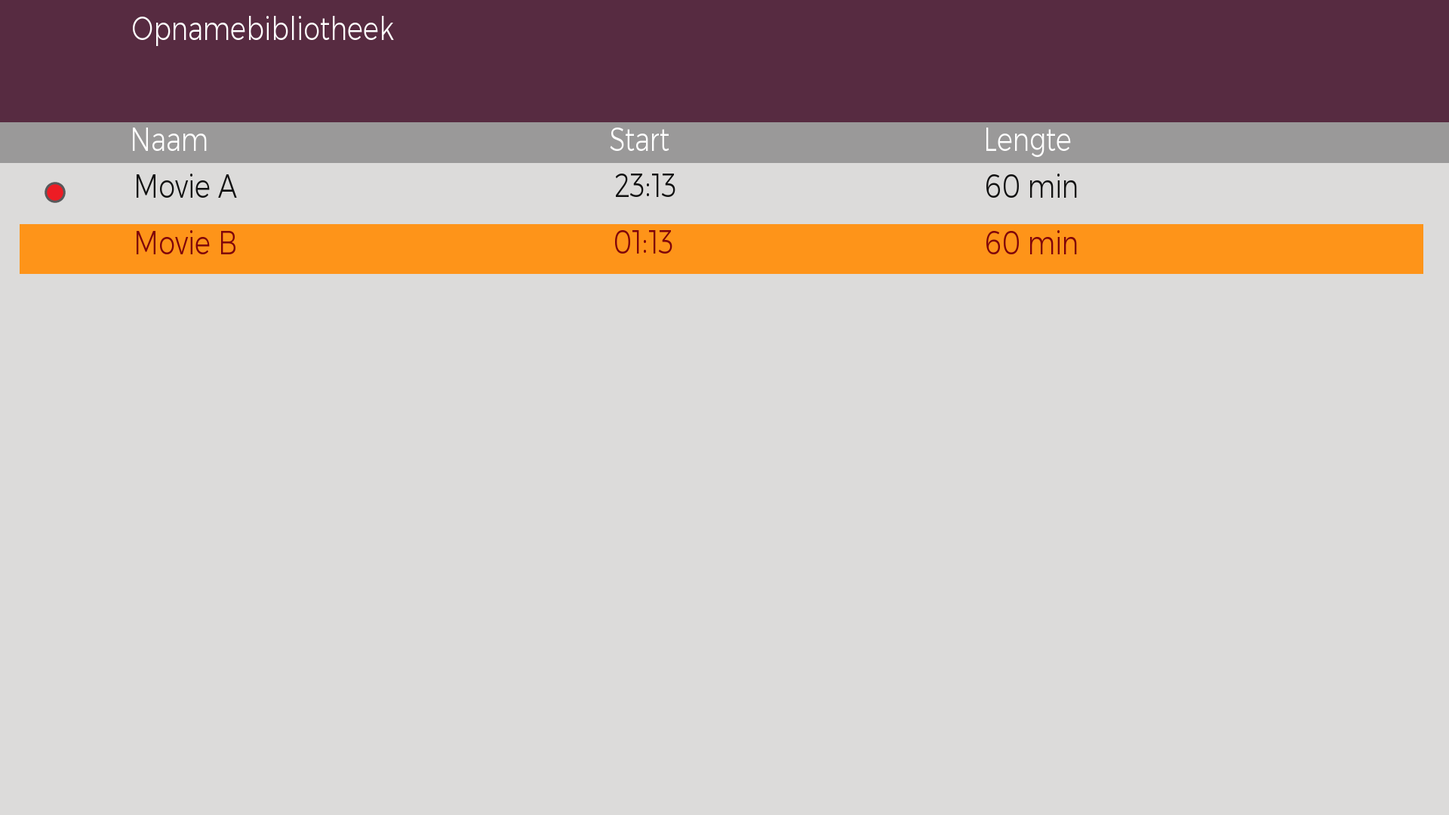
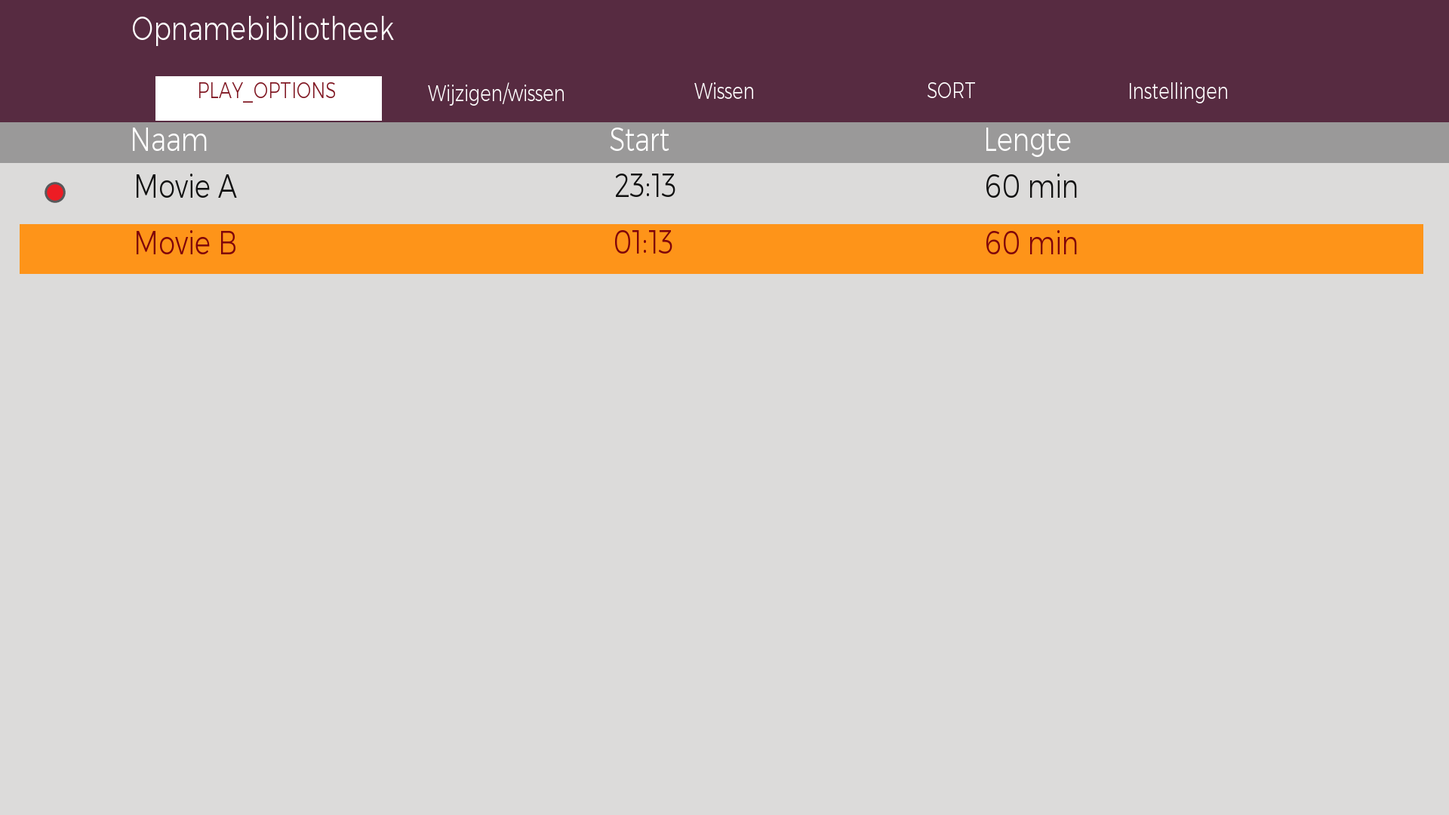
Correct the EPG/PVR tabs to text buttons and paint them
SVGButton::create 0x010aea28 looks its third argument up through\nUIResourceManager::lookupString, so the EPG/PVR tab names are localized text\nlabels, not glyph art. The real button states are TabButtonFA/UFA/FI/UFI\n(BinSVG 522..525): selected = solid white pill with #811924 text, unselected\n= transparent with white text. Correct the EPG and PVR reports, FINDINGS,\nMEMORY/TODO, subsystems and the layout header, which all said glyph/action\ntabs.\n\nAdd a shared paint_tab helper and render the five labels in the EPG timeline,\nEPG synopsis and PVR list (vendor Dutch values as fallbacks when i18n is not\npublished: Nu/Volgende schema, Filter, Vorige dag, Volgende dag, Extra's;\nPLAY_OPTIONS, Wijzigen/wissen, Wissen, SORT, Instellingen). Labels use a lazy\nsmaller font (ui.tab_font_id, default 4) because font7 renders\n"Nu/Volgende schema" 366 px wide in a 300 px tab; the exact vendor button font\nrecord remains unpinned. The tests assert the selected white pill.\n\nRecaptured candidates now show the tab row: epg-stock.png, epg-stock-synopsis.png\nand pvr-stock.png. Full host suite passes (rc=0); docs checks pass (345); ARM\nmod_ui_vendor.so c58d0f44... builds. No TV run; recorder evidence only.

diff --git a/openaurora/modules/ui_vendor/ui_vendor.c b/openaurora/modules/ui_vendor/ui_vendor.c
@@ -238,6 +238,9 @@ struct ctx {
     struct oa_bitmap_font stock_subtitle_font;              /* channel 5 */
     unsigned char *stock_tab_data, *stock_marker_data, *stock_subtitle_data;
     int stock_fonts_on;              /* channel stock mode fonts loaded */
+    struct oa_bitmap_font tab_font;  /* EPG/PVR tab labels (font12) */
+    unsigned char *tab_font_data;
+    int tab_font_on;
     struct text_canvas text[SETTINGS_TEXT_MAX];
     struct text_canvas title; /* live tab title blob (no focus variant) */
     /* Sub-launcher live text: font3 labels + font12 values, localized through
@@ -1152,6 +1155,9 @@ static void settings_text_free(struct ctx *c)
     free(c->stock_subtitle_data);
     c->stock_subtitle_data = NULL;
     c->stock_fonts_on = 0;
+    free(c->tab_font_data);
+    c->tab_font_data = NULL;
+    c->tab_font_on = 0;
     oa_font_pack_free(&c->font_pack);
     c->text_on = 0;
     c->font_num_on = 0;
@@ -2248,6 +2254,64 @@ static void pvr_text(struct ctx *c, const char *text, int x, int y,
     channel_text_at(c, &c->font, text, x, y, r, g, b);
 }
 
+/* TabButtonFA/UFA/FI/UFI (BinSVG 522..525): the selected tab is a white pill
+ * with #811924 text; unselected tabs are transparent with white text. The
+ * vendor SVGButton::create 0x010aea28 looks the label up through
+ * UIResourceManager::lookupString, so these are text buttons, not glyph art. */
+static const char *tab_label(const oa_i18n_iface *i18n, const char *key,
+                             const char *fallback)
+{
+    const char *text = i18n ? i18n->translate(key, NULL) : fallback;
+    return text && *text ? text : fallback;
+}
+
+/* Tab labels use the smaller button font (record 12 by default); font7 is
+ * 61 px and overflows a 300x59 tab for "Nu/Volgende schema". */
+static int tab_font_open(struct ctx *c)
+{
+    if (!c)
+        return -EINVAL;
+    if (c->tab_font_on)
+        return 0;
+    if (!c->font_pack.count)
+        return -ENOTSUP;
+    int id = atoi(c->api->config_get(c->api->priv, "ui.tab_font_id", "4"));
+    if (id < 0)
+        return -EINVAL;
+    int rc = settings_font_open(&c->font_pack, id, &c->tab_font,
+                                &c->tab_font_data);
+    if (rc)
+        return rc;
+    c->tab_font_on = 1;
+    return 0;
+}
+
+static void paint_tab(struct ctx *c, int x, int y, int w, int h,
+                      const char *label, int selected)
+{
+    if (!c || !c->d || !label || !*label)
+        return;
+    if (selected)
+        c->d->fill(x, y, w, h, 255, 255, 255);
+    (void)tab_font_open(c);
+    const struct oa_bitmap_font *font = c->tab_font_on ? &c->tab_font
+                                                       : &c->font;
+    int advance = 0, font_height = 0;
+    /* Tolerate a font slightly taller than the button; the vendor textPos is
+     * a 50 px inner box. */
+    if (oa_font_text_measure(font, label, 0, &advance) != 0 ||
+        advance <= 0 || advance > w - 8 ||
+        oa_bitmap_font_height(font, &font_height) != 0 ||
+        font_height <= 0 || font_height > h + 8)
+        return;
+    int tx = x + (w - advance) / 2;
+    int ty = y + (h - font_height) / 2;
+    if (selected)
+        channel_text_at(c, font, label, tx, ty, 129, 25, 36);
+    else
+        channel_text_at(c, font, label, tx, ty, 255, 255, 255);
+}
+
 /* Stock PVR/recording list, gated by ui.pvr_stock=1. Layout is BinSVG 692
  * (DialogPlayList.svg); rows come from OA_SVC_PVR. Action glyph buttons,
  * disk stats and the scrollbar art are not painted yet. */
@@ -2285,7 +2349,6 @@ static void paint_pvr(struct ctx *c)
     const char *start_title = i18n ? i18n->translate("START_TITLE", NULL) : "Start";
     const char *duration_title =
         i18n ? i18n->translate("DURATION_TITLE", NULL) : "Lengte";
-    if (i18n) c->api->release(c->api->priv, OA_SVC_I18N);
     if (!name_title || !*name_title) name_title = "Naam";
     if (!start_title || !*start_title) start_title = "Start";
     if (!duration_title || !*duration_title) duration_title = "Lengte";
@@ -2295,6 +2358,19 @@ static void paint_pvr(struct ctx *c)
              255, 255, 255);
     pvr_text(c, duration_title, l.title_length.x, l.title_length.y + 5,
              255, 255, 255);
+    static const char *const PVR_TABS[5] = {
+        "HLP_PLAY_OPTIONS", "HLP_EDIT", "HLP_DELETE", "HLP_SORT", "SETTINGS"
+    };
+    /* Vendor Dutch values, used only when i18n is not published. */
+    static const char *const PVR_TABS_EN[5] = {
+        "PLAY_OPTIONS", "Wijzigen/wissen", "Wissen", "SORT", "Instellingen"
+    };
+    for (int i = 0; i < 5; i++) {
+        const oa_pvr_rect *t = &l.tabs[i];
+        paint_tab(c, t->x, t->y, t->x1 - t->x, t->y1 - t->y,
+                  tab_label(i18n, PVR_TABS[i], PVR_TABS_EN[i]), i == 0);
+    }
+    if (i18n) c->api->release(c->api->priv, OA_SVC_I18N);
 
     struct oa_pvr_job jobs[64];
     size_t total = 0;
@@ -2460,6 +2536,19 @@ static void paint_epg(struct ctx *c)
                  l.text_rgb[1], l.text_rgb[2]);
         epg_text(c, t_r, l.time_r.x, l.time_r.y + 5, l.text_rgb[0],
                  l.text_rgb[1], l.text_rgb[2]);
+    }
+    static const char *const EPG_TABS[5] = {
+        "NOW_NEXT_SCHEDULE", "HLP_FILTER", "PREVIOUS_DAY", "NEXT_DAY", "EXTRAS"
+    };
+    /* Vendor Dutch values, used only when i18n is not published. */
+    static const char *const EPG_TABS_EN[5] = {
+        "Nu/Volgende schema", "Filter", "Vorige dag", "Volgende dag",
+        "Extra's"
+    };
+    for (int i = 0; i < 5; i++) {
+        const oa_epg_rect *t = &l.tabs[i];
+        paint_tab(c, t->x, t->y, t->x1 - t->x, t->y1 - t->y,
+                  tab_label(i18n, EPG_TABS[i], EPG_TABS_EN[i]), i == 0);
     }
     if (i18n) c->api->release(c->api->priv, OA_SVC_I18N);
 
@@ -2715,6 +2804,18 @@ static void paint_epg_synopsis(struct ctx *c)
             epg_text(c, text, y.event_text.x, y.event_text.y + 5,
                      y.text_rgb[0], y.text_rgb[1], y.text_rgb[2]);
         }
+    }
+    static const char *const SYN_TABS[5] = {
+        "NOW_NEXT_SCHEDULE", "HLP_FILTER", "PREVIOUS_DAY", "NEXT_DAY", "EXTRAS"
+    };
+    static const char *const SYN_TABS_EN[5] = {
+        "Nu/Volgende schema", "Filter", "Vorige dag", "Volgende dag",
+        "Extra's"
+    };
+    for (int i = 0; i < 5; i++) {
+        const oa_epg_rect *t = &y.tabs[i];
+        paint_tab(c, t->x, t->y, t->x1 - t->x, t->y1 - t->y,
+                  tab_label(i18n, SYN_TABS[i], SYN_TABS_EN[i]), i == 0);
     }
     if (i18n) c->api->release(c->api->priv, OA_SVC_I18N);
     if (svc) c->api->release(c->api->priv, OA_SVC_SERVICE_LIST);

diff --git a/openaurora/include/openaurora/pvr_layout.h b/openaurora/include/openaurora/pvr_layout.h
@@ -15,9 +15,10 @@ extern "C" {
  *   row 26,222,1886,288 (66 px); name/time/duration columns 181/815/1307;
  *   scrollbar 1910,217,1920,974; five action tabs 206..1714 at y101..160;
  *   title/clock and space-info rects.
- * PlayListDialog::init sets the title from the LIBRARY string key; the five
- * tab buttons are glyph actions (HLP_PLAY_OPTIONS/EDIT/DELETE/SORT/SETTINGS),
- * not text tabs. The row pitch is not in record 692; 75 px is the shared
+ * PlayListDialog::init sets the title from the LIBRARY string key. The five
+ * tab buttons are text buttons: SVGButton::create resolves each name through
+ * UIResourceManager::lookupString (HLP_PLAY_OPTIONS/EDIT/DELETE/SORT/SETTINGS),
+ * with the TabButtonFA/UFA/FI/UFI states (BinSVG 522..525). The row pitch is not in record 692; 75 px is the shared
  * full-screen-list step and is marked capture/class-derived, not resource.
  * Rectangles are EASIRect-style exclusive x1/y1. No UI/host I/O.
  */

diff --git a/openaurora/tests/ui_epg_stock.c b/openaurora/tests/ui_epg_stock.c
@@ -270,6 +270,10 @@ int main(int argc, char **argv)
     assert(find_fill(trace, 3, 319, 1917, 724, 197, 201, 205));
     assert(find_fill(trace, 0, 319, 640, 724, 255, 255, 255));
     assert(find_fill(trace, 643, 319, 2, 724, 35, 31, 32));
+    /* TabButtonFA 522: selected tab is a white pill; the other four are
+     * transparent. The labels are text from the HLP_* i18n keys. */
+    assert(find_fill(trace, 206, 198, 300, 59, 255, 255, 255));
+    assert(!find_fill(trace, 508, 198, 300, 59, 255, 255, 255));
 
     /* Event bars use the recovered ratio (interval 7200 s, width 1276). */
     int x = 0, w = 0;

diff --git a/openaurora/tests/pvr_layout.c b/openaurora/tests/pvr_layout.c
@@ -60,6 +60,6 @@ int main(void)
     assert(oa_pvr_visible_rows(&bad) == -EINVAL);
     assert(oa_pvr_layout_default(NULL) == -EINVAL);
 
-    puts("ok pvr layout: record-692 rects, 75/66 rows, 5 action tabs and colours");
+    puts("ok pvr layout: record-692 rects, 75/66 rows, 5 text tabs and colours");
     return 0;
 }

diff --git a/artifacts/reports/README.md b/artifacts/reports/README.md
@@ -64,8 +64,8 @@ establishes completion of the full replacement.
 | [TUNER-QUIESCE](TUNER-QUIESCE-2026-11-06.md) | ABI 3 async gate for mod_tuner: stop an active scan and unpublish `tuner` synchronously, then close the TS replay `FILE*` synchronously or on a worker after `tuner.cleanup_delay_ms`. A `ts_open` flag prevents the stop+unload double-quiesce from spawning a second worker after the file is already closed. `m_stop`/`m_destroy` join and close leftovers; `m_start` refuses if published or a worker is live. Control-socket test with the generated EIT TS fixture: reload fails fast, `tuner-state` ENODEV, status responsive, the old `/proc/<pid>/fd` TS entry disappears then the reload reopens it, scan still works, stop uses the gate and closes the second fd. Existing stub/TS tuner IPC tests pass; ARM links libpthread. No NIM/frontend/demux or PVR hardware. |
 | [EPG-QUIESCE](EPG-QUIESCE-2026-11-06.md) | ABI 3 async gate for mod_epg: clear publication and unpublish `epg.ingest`/`epg` synchronously, detach the `oa_eit_cache`, then persist (when `epg.path` is set) and destroy it on a worker after `epg.cleanup_delay_ms`. `m_stop`/`m_destroy` join/free leftovers; `m_start` refuses if live and recreates the cache for a stop/start cycle. Control-socket test: ingest two EIT events, reload fails fast, `epg-count` ENODEV, status responsive, the worker writes the two-record `OAEPG1` file, retry completes and the replacement reloads both events; clear and stop use the gate. Existing EPG persistence and tuner handoff tests pass; ARM links libpthread. Project cache only, not the vendor EIT/SQLite store. |
 | [PVR-QUIESCE](PVR-QUIESCE-2026-11-06.md) | ABI 3 async gate for mod_pvr: clear publication and unpublish `pvr` synchronously, then close the file-backed backend synchronously or on a worker after `pvr.cleanup_delay_ms`. An `opened` flag prevents the stop+unload double quiesce from spawning a second worker. `m_stop`/`m_destroy` join/close leftovers; `m_start` refuses if published, a worker is live or the backend is still open. Control-socket test: add two reservations, reload fails fast, `pvr-list` ENODEV, status responsive, the two-record `OAPVR1` file is present, retry completes and lists both, a new add continues the persisted id sequence, record/stop still work, and stop uses the gate. Existing PVR reload/cross-process test passes; ARM links libpthread. Stub close is only an in-memory flag, not a slow storage close. |
-| [PVR-STOCK-LAYOUT](PVR-STOCK-LAYOUT-2026-11-17.md) | stock PVR list from `DialogPlayList.svg` (BinSVG 692) and `PlayListDialog`: panel 0,0,1920,1080 `#DCDBDA`; header 0,0,1921,162 `#481730` 9/10 (87,43,65); subheader 0,162,1920,54 `#010101` 3/10; rows 26,222 1860x66 pitch75; name/time/duration 181/815/1307; five action-glyph tabs `HLP_PLAY_OPTIONS/EDIT/DELETE/SORT/SETTINGS`; title from the `LIBRARY` key ("Bibliotheek"); scrollbar/space-info rects. `common/pvr_layout.c` + `check-pvr-layout` encode/test the rects, colours and 10 rows; a default-off `ui.pvr_stock=1` `SCREEN_PVR` lists `OA_SVC_PVR` rows (`check-ui-pvr-stock`, real-font candidate `pvr-stock.png`). 2026-11-17 follow-up: `LIBRARY` resolves to "Opnamebibliotheek" and the columns come from `NAME_TITLE/START_TITLE/DURATION_TITLE` (Naam/Start/Lengte); `createComponents` maps recordingIcon/newIcon/lockedIcon/playbackIcon/partialIcon/serviceTypeIcon to image ids 0x36/0x116/0x1e/0x115/0x114/99 (+6/8) = icon_record_small/right_arrow/lock/play_disallowed/exclamation_mark/lost_signal/tv_small/radio_small, and only recordingIcon is painted (for OA_PVR_RECORDING, rect 55,237). `USED/RESERVED/FREE_SPACE_INFO_TITLE` + " MB" are recovered but need disk stats. No stock PVR capture, action glyphs, other indicators, space values, scrollbar art, recording engine, stock entry path or scanout; recorder evidence only. |
-| [EPG-STOCK-LAYOUT](EPG-STOCK-LAYOUT-2026-11-17.md) | stock multi-service EPG timeline from `DialogEPG.svg` (BinSVG 101) and `MultiServiceTimelineScheduleDialog`: panel 0,0,1920,1080; title 164,21; date bar 0,264,1920,54; date 44,266; timeL/M/R 677/1196/1713; list 3,319,1920,1043; service column 0,319,640,1043; timeline 644..1920 (width 1276); five glyph tabs `NOW_NEXT_SCHEDULE/HLP_FILTER/PREVIOUS_DAY/NEXT_DAY/EXTRAS`; title key `PROGRAM_GUIDE` ("Programmagids"), date `<weekday-short> %02u/%02u/%u`, times `%02u:%02u`. `ServiceTimelineBox::createButton` gives `x/x1 = width*seconds/interval`, 7200 s default (zoom 1..4 h). `common/epg_layout.c` + `check-epg-layout` test the rects/split/spans/instant/pitch; a default-off `ui.epg_stock=1` `SCREEN_EPG` paints chrome, i18n title/date/times, service rows and `OA_SVC_EPG` bars, with rows only under an explicit `ui.epg_row_pitch` (runtime pitch not pinned). `check-ui-epg-stock` and a real-font Dutch candidate `epg-stock.png` exist. 2026-11-17 follow-up: `SVGServiceEventButton::resetSVGNames` selects serviceBFA/UFA/FI/UFI (BinSVG 456..459, row/time/text fills) and the bars now use those recovered styles; `showSynopsis` selects record 102, rendered behind `ui.epg_synopsis=1` (event title, HH:MM-HH:MM, vendor duration, one clipped description line) with the real-font `epg-stock-synopsis.png`. No stock EPG capture; header fill is a family inference; tab glyphs/icons/selection/synopsis image/bottom rows/wrapping/live EIT/scanout open; recorder evidence only. |
+| [PVR-STOCK-LAYOUT](PVR-STOCK-LAYOUT-2026-11-17.md) | stock PVR list from `DialogPlayList.svg` (BinSVG 692) and `PlayListDialog`: panel 0,0,1920,1080 `#DCDBDA`; header 0,0,1921,162 `#481730` 9/10 (87,43,65); subheader 0,162,1920,54 `#010101` 3/10; rows 26,222 1860x66 pitch75; name/time/duration 181/815/1307; five text tabs `HLP_PLAY_OPTIONS/EDIT/DELETE/SORT/SETTINGS` (SVGButton::create resolves each through UIResourceManager::lookupString; TabButtonFA/UFA/FI/UFI states 522..525 give a white selected pill/#811924 text and transparent white-text unselected tabs); title from the `LIBRARY` key ("Bibliotheek"); scrollbar/space-info rects. `common/pvr_layout.c` + `check-pvr-layout` encode/test the rects, colours and 10 rows; a default-off `ui.pvr_stock=1` `SCREEN_PVR` lists `OA_SVC_PVR` rows (`check-ui-pvr-stock`, real-font candidate `pvr-stock.png`). 2026-11-17 follow-up: `LIBRARY` resolves to "Opnamebibliotheek" and the columns come from `NAME_TITLE/START_TITLE/DURATION_TITLE` (Naam/Start/Lengte); `createComponents` maps recordingIcon/newIcon/lockedIcon/playbackIcon/partialIcon/serviceTypeIcon to image ids 0x36/0x116/0x1e/0x115/0x114/99 (+6/8) = icon_record_small/right_arrow/lock/play_disallowed/exclamation_mark/lost_signal/tv_small/radio_small, and only recordingIcon is painted (for OA_PVR_RECORDING, rect 55,237). `USED/RESERVED/FREE_SPACE_INFO_TITLE` + " MB" are recovered but need disk stats. No stock PVR capture, exact tab font record, other indicators, space values, scrollbar art, recording engine, stock entry path or scanout; recorder evidence only. |
+| [EPG-STOCK-LAYOUT](EPG-STOCK-LAYOUT-2026-11-17.md) | stock multi-service EPG timeline from `DialogEPG.svg` (BinSVG 101) and `MultiServiceTimelineScheduleDialog`: panel 0,0,1920,1080; title 164,21; date bar 0,264,1920,54; date 44,266; timeL/M/R 677/1196/1713; list 3,319,1920,1043; service column 0,319,640,1043; timeline 644..1920 (width 1276); five text tabs `NOW_NEXT_SCHEDULE/HLP_FILTER/PREVIOUS_DAY/NEXT_DAY/EXTRAS` (localized through UIResourceManager::lookupString; TabButton 522..525 white selected pill/#811924 text, transparent white-text unselected); title key `PROGRAM_GUIDE` ("Programmagids"), date `<weekday-short> %02u/%02u/%u`, times `%02u:%02u`. `ServiceTimelineBox::createButton` gives `x/x1 = width*seconds/interval`, 7200 s default (zoom 1..4 h). `common/epg_layout.c` + `check-epg-layout` test the rects/split/spans/instant/pitch; a default-off `ui.epg_stock=1` `SCREEN_EPG` paints chrome, i18n title/date/times, service rows and `OA_SVC_EPG` bars, with rows only under an explicit `ui.epg_row_pitch` (runtime pitch not pinned). `check-ui-epg-stock` and a real-font Dutch candidate `epg-stock.png` exist. 2026-11-17 follow-up: `SVGServiceEventButton::resetSVGNames` selects serviceBFA/UFA/FI/UFI (BinSVG 456..459, row/time/text fills) and the bars now use those recovered styles; `showSynopsis` selects record 102, rendered behind `ui.epg_synopsis=1` (event title, HH:MM-HH:MM, vendor duration, one clipped description line) with the real-font `epg-stock-synopsis.png`. No stock EPG capture; header fill is a family inference; exact tab font record/icons/selection/synopsis image/bottom rows/wrapping/live EIT/scanout open; recorder evidence only. |
 | [CHANNELS-QUIESCE](CHANNELS-QUIESCE-2026-11-06.md) | ABI 3 async gate for mod_channels, plus an ownership fix: the runtime active list moves from process-global arrays to a heap-owned `oa_channel_list` per module instance (the shared `oa_channel_runtime_iface` stays for direct tests). Quiesce clears publication, unpublishes `channels` synchronously, detaches the list, then destroys it synchronously or on a worker after `channels.cleanup_delay_ms`. A stale iface fails closed; `m_stop`/`m_destroy` join/free; `m_start` refuses if live and starts with an empty list. Control-socket test: ingest two rows, reload fails fast, `channel-state` ENODEV, status responsive, retry starts empty and ingests again, stop uses the gate. Direct/IPC/UI channel tests pass; ARM links libpthread. Project ACTIVECHANNELLIST model, not vendor EASI; no LCN/visibility. |
 | [SERVICE-DB-QUIESCE](SERVICE-DB-QUIESCE-2026-11-06.md) | ABI 3 async gate for mod_service_db: clear publication and unpublish `service.list` synchronously, detach the heap `oa_service_list` row array, then free it synchronously or on a worker after `service_db.cleanup_delay_ms`. `m_stop`/`m_destroy` join/free leftovers; `m_start` refuses if live. Control-socket test with the 525-row dump: reload fails fast, `service-list` ENODEV, status responsive, retry re-reads 525 rows, sorted/name/channel probes work, stop uses the gate. DB unit/module/IPC tests pass; ARM links libsqlite3 + libpthread. Project read-only dump inventory, not a live vendor settingsDB writer or runtime EASI filter; start-time open/read is still synchronous. |
 | [IMAGE-DECODE-QUIESCE](IMAGE-DECODE-QUIESCE-2026-11-06.md) | ABI 3 async gate for mod_image_decode: clear publication and unpublish `image.decode` synchronously, detach the libpng/zlib/TurboJPEG handles and clear TurboJPEG pointers, then `dlclose` them synchronously or on a worker after `image_decode.cleanup_delay_ms`. `m_stop`/`m_destroy` join/close leftovers; `m_start` refuses if live and reopens the codecs. Control-socket test: decode PNG, reload fails fast, image-decode ENODEV, status responsive, retry reopens and decodes the same bytes, stop uses the gate. Existing PNG/JPEG unit and IPC tests pass; ARM links libdl + libpthread. Host codecs, not TV libraries; decode itself stays synchronous. |

diff --git a/artifacts/reports/PVR-STOCK-LAYOUT-2026-11-17.md b/artifacts/reports/PVR-STOCK-LAYOUT-2026-11-17.md
@@ -35,9 +35,13 @@ inference, not a record-692 fill.
 the vendor Dutch translation is **"Opnamebibliotheek"** (verified through
 `common/langprofile.c`, not assumed). `SVGFullScreenListDialog::createComponents`
 sets the column titles from `NAME_TITLE`, `START_TITLE` and `DURATION_TITLE`
-(dut "Naam", "Start", **"Lengte"**). `createTabButtons` makes five **action
-glyph** buttons (`HLP_PLAY_OPTIONS`, `HLP_EDIT`, `HLP_DELETE`, `HLP_SORT`,
-`SETTINGS`), not text tabs.
+(dut "Naam", "Start", **"Lengte"**). `createTabButtons` makes five **text** buttons: `SVGButton::create`
+@0x010aea28 resolves each name through `UIResourceManager::lookupString`, so
+`HLP_PLAY_OPTIONS`, `HLP_EDIT`, `HLP_DELETE`, `HLP_SORT`, `SETTINGS` are
+localized labels (dut "PLAY_OPTIONS", "Wijzigen/wissen", "Wissen", "SORT",
+"Instellingen"), not glyph art. The TabButtonFA/UFA/FI/UFI states (BinSVG
+522..525) give a solid white selected pill with `#811924` text and transparent
+unselected tabs with white text.
 
 Row indicators map to image ids and record-692 rects:
 
@@ -69,8 +73,9 @@ and `FREE_SPACE_INFO_TITLE` plus `" MB"`/`" MB "` (dut "Gebruikte ruimte: ",
   `portal.menu_action("open:pvr")`: a `SCREEN_PVR` list with the header,
   `LIBRARY` title and `NAME_TITLE/START_TITLE/DURATION_TITLE` columns through
   `i18n` (fallbacks "Opnamebibliotheek" and "Naam/Start/Lengte"), rows from
-  `OA_SVC_PVR` (name, local start time, minutes), the red
-  `icon_record_small` indicator on recording rows, focus and
+  `OA_SVC_PVR` (name, local start time, minutes), the five text tab labels
+  with the TabButton state colours, the red `icon_record_small` indicator on
+  recording rows, focus and
   Up/Down/Select/Exit.
 - `tests/ui_pvr_stock.c` adds two PVR reservations, sets the first to
   recording, and checks the panel/header/subheader/focus fills, columns, the
@@ -81,8 +86,9 @@ and `FREE_SPACE_INFO_TITLE` plus `" MB"`/`" MB "` (dut "Gebruikte ruimte: ",
 ## Limits and next step
 
 No stock PVR screen capture exists: the candidate is recorder evidence, not
-pixel parity or scanout. The five action glyphs, new/tagged/locked/partial/
-playback/service-type indicators, disk space values, scrollbar art, exact
+pixel parity or scanout. The exact vendor tab font record is not pinned
+(`ui.tab_font_id` defaults to 4), new/tagged/locked/partial/playback/
+service-type indicators, disk space values, scrollbar art, exact
 focus style, sort/tab functions, synopsis (record 693) and stock entry path
 are not painted. The rows come from the
 project PVR reservation stub, not a recording engine or storage hardware. A

diff --git a/FINDINGS.md b/FINDINGS.md
@@ -313,7 +313,7 @@ edge/antialias). Live EASI/LCN/visibility, paging and scanout remain open.
 PVR-STOCK-LAYOUT-2026-11-17: the stock PVR list is BinSVG 692
 (`DialogPlayList.svg`) with panel #DCDBDA, header #481730 at 9/10 (87,43,65),
 subheader #010101 at 3/10, rows 26,222 1860x66 pitch75, name/time/duration
-columns 181/815/1307 and five action-glyph tabs
+columns 181/815/1307 and five text tabs
 (HLP_PLAY_OPTIONS/EDIT/DELETE/SORT/SETTINGS). LIBRARY resolves to
 "Opnamebibliotheek" (dut, checked with common/langprofile.c) and the columns
 come from SVGFullScreenListDialog keys NAME_TITLE/START_TITLE/DURATION_TITLE
@@ -328,7 +328,7 @@ refreshSpaceUsage uses USED/RESERVED/FREE_SPACE_INFO_TITLE + " MB" (dut
 disk stats. `common/pvr_layout.c` + `check-pvr-layout` encode/test the layout;
 a default-off `ui.pvr_stock=1` SCREEN_PVR lists OA_SVC_PVR rows
 (name/start/length/recording icon/focus) and `check-ui-pvr-stock` passes with
-a real-font/real-icon recorder candidate. No stock PVR capture, action glyphs,
+a real-font/real-icon recorder candidate. No stock PVR capture, exact tab font,
 other indicators, space values, scrollbar art, recording engine or scanout;
 recorder evidence only.
 
@@ -341,7 +341,7 @@ list.x + EPGServiceListBox.width + 1 -> service column 3..644, timeline
 644..1920,319..1043 (width 1276). ServiceTimelineBox::createButton computes
 x = width*(eventStart-windowStart)/interval and x1 clamped to width, in
 seconds; ListTimelineBox zoom steps 3600..14400 s with an initialized 7200 s
-default. The five tabs are glyph actions (NOW_NEXT_SCHEDULE, HLP_FILTER,
+default. The five tabs are text buttons (NOW_NEXT_SCHEDULE, HLP_FILTER,
 PREVIOUS_DAY, NEXT_DAY, EXTRAS). `common/epg_layout.c` + `check-epg-layout`
 encode/test the rects, split, spans, instant x, explicit-pitch rows and tabs.
 A default-off `ui.epg_stock=1` SCREEN_EPG paints the chrome, i18n
@@ -356,7 +356,7 @@ showSynopsis 0x00dca1b0 selects record 102 (hideSynopsis returns to 101);
 `ui.epg_synopsis=1` renders event title, HH:MM-HH:MM, vendor duration
 (%dh %dm / %dm %s) and one clipped description line, with the real-font
 candidate epg-stock-synopsis.png. The top-band header fill is a family
-inference (#481730) pending a capture; tab glyphs/icons, selection, synopsis
+inference (#481730) pending a capture; exact tab font/icons, selection, synopsis
 event image/bottom rows/wrapping, day navigation, live EIT and scanout remain
 open. Recorder evidence only.
 

diff --git a/artifacts/reports/EPG-STOCK-LAYOUT-2026-11-17.md b/artifacts/reports/EPG-STOCK-LAYOUT-2026-11-17.md
@@ -15,9 +15,13 @@ of inventing a grid. Raw rectangles and the recorder candidate are in
 
 - Class: `MultiServiceTimelineScheduleDialog`, internal name `EPGTimeline`.
   `getEPGTitle` returns the `PROGRAM_GUIDE` key (dut "Programmagids").
-- Five tab buttons are glyph actions, not text tabs: `NOW_NEXT_SCHEDULE`,
-  `HLP_FILTER`, `PREVIOUS_DAY`, `NEXT_DAY`, `EXTRAS` (dut "Nu/Volgende
-  schema", "Filter", "Vorige dag", "Volgende dag", "Extra's").
+- Five tab buttons are **text** buttons: `SVGButton::create` @0x010aea28
+  looks the name up through `UIResourceManager::lookupString`, so these are
+  localized labels, not glyph art. Labels `NOW_NEXT_SCHEDULE`, `HLP_FILTER`,
+  `PREVIOUS_DAY`, `NEXT_DAY`, `EXTRAS` (dut "Nu/Volgende schema", "Filter",
+  "Vorige dag", "Volgende dag", "Extra's"). The button states are
+  TabButtonFA/UFA/FI/UFI (BinSVG 522..525): selected = solid white pill with
+  `#811924` text, unselected = transparent with white text.
 - `createServiceList` @0x00dc9ce4 splits the list at
   `list.x + EPGServiceListBox.width + 1` -> service column 3..644, timeline
   644..1920, y 319..1043 (width 1276).
@@ -65,7 +69,8 @@ inference), event bar 0,264,1920,571 (`#010101` 5/10), event image
 44,518,368,562, timeM 1196,519,1446,563, list 0,570,1920,1077 and service
 column 0,572,640,994 `#C5C9CD`. `ui.epg_synopsis=1` renders the selected
 event title, `HH:MM-HH:MM` time, vendor duration `%dh %dm`/`%dm %s` and one
-clipped description line.
+clipped description line. Both views paint the five tab labels from the i18n
+keys with the TabButton state colours.
 
 ## Implementation
 
@@ -97,8 +102,10 @@ clipped description line.
 ## Limits and next step
 
 No stock EPG screen capture exists, so the candidate is recorder evidence, not
-pixel parity or scanout. The header fill is a family inference; tab glyph art,
-channel logo/HD/encrypted icons, selection/focus, the synopsis event image
+pixel parity or scanout. The header fill is a family inference; the exact
+vendor tab font record is not pinned (`ui.tab_font_id` defaults to 4 because
+font7 overflows the 300 px tabs), channel logo/HD/encrypted icons,
+selection/focus, the synopsis event image
 and bottom event rows, text wrapping, day navigation, filters,
 reminders/record actions, the stock entry path, the runtime row pitch and
 scanout remain open. Event-bar colours are the recovered serviceB styles. Live EIT/EPG data still requires the

diff --git a/docs/reverse-engineering/subsystems.md b/docs/reverse-engineering/subsystems.md
@@ -413,12 +413,13 @@ Evidence: [APP-MANAGER-KEYBOARD](../../artifacts/reports/APP-MANAGER-KEYBOARD-20
   an explicit `ui.epg_row_pitch` (`check-ui-epg-stock`). Event bars use the
   recovered serviceBFA/UFA/FI/UFI fills (BinSVG 456..459); `ui.epg_synopsis=1`
   renders record 102 (title/time/duration/description). Header fill is a
-  family inference; no stock capture, glyphs/icons/selection/synopsis image/
+  family inference; no stock capture, exact tab font/icons/selection/synopsis image/
   wrapping/live EIT/scanout. Evidence: EPG-STOCK-LAYOUT.
 - Stock PVR list: `DialogPlayList.svg` (BinSVG 692) panel 0,0,1920,1080
   `#DCDBDA`, header 0,0,1921,162 `#481730` 9/10, rows 26,222 1860x66 pitch75,
   name/time/duration 181/815/1307 and five action-glyph tabs
-  (`HLP_PLAY_OPTIONS/EDIT/DELETE/SORT/SETTINGS`); title from `LIBRARY`.
+  (`HLP_PLAY_OPTIONS/EDIT/DELETE/SORT/SETTINGS`, text buttons through
+  UIResourceManager::lookupString; TabButton 522..525); title from `LIBRARY`.
   `common/pvr_layout.c` + `check-pvr-layout`; default-off `ui.pvr_stock=1`
   lists `OA_SVC_PVR` rows (`check-ui-pvr-stock`). LIBRARY resolves to
   "Opnamebibliotheek"; columns use NAME_TITLE/START_TITLE/DURATION_TITLE

diff --git a/MEMORY.md b/MEMORY.md
@@ -1624,7 +1624,7 @@ provisional screen remains default; live EASI, paging and scanout remain open.
 
 PVR-STOCK-LAYOUT-2026-11-17: `DialogPlayList.svg` (BinSVG 692) gives the stock
 PVR list (panel #DCDBDA, header #481730 9/10, rows 26,222 1860x66 pitch75,
-name/time/duration 181/815/1307, five action-glyph tabs). LIBRARY ->
+name/time/duration 181/815/1307, five text tabs). LIBRARY ->
 "Opnamebibliotheek"; columns NAME_TITLE/START_TITLE/DURATION_TITLE ->
 Naam/Start/Lengte. createComponents ids: recording 0x36=54
 icon_record_small (rect 55,237), new 0x116=278 icon_right_arrow, locked
@@ -1654,7 +1654,7 @@ SVGServiceEventButton styles come from serviceBFA/UFA/FI/UFI (BinSVG
 #EDEDED/#D8D8D8/#7E000A, UFI=UFA fill) and the bars use them. showSynopsis
 selects record 102; `ui.epg_synopsis=1` renders event title, HH:MM-HH:MM,
 vendor duration and one clipped description line (epg-stock-synopsis.png).
-Header fill is a family inference; tab glyphs/icons/selection/synopsis
+Header fill is a family inference; exact tab font/icons/selection/synopsis
 image/bottom rows/wrapping/live EIT/scanout open. Recorder only.
 
 PVR-MODULE-2026-11-05 (host/qemu): added a vendor-shaped PVR boundary

diff --git a/artifacts/analysis/epg-stock-2026-11-17/README.md b/artifacts/analysis/epg-stock-2026-11-17/README.md
@@ -49,9 +49,12 @@ EPG screen capture exists.
 
 Colours: list `#C5C9CD`, service column white with `#231F20`, red band
 `#BE1E2D` at 9/10, date bar `#010101` at 5/10, event title `#F7941E`, arrows
-`#009F93`. The tab rects use a red placeholder stroke and are **not** painted:
-the five buttons are glyph actions (`NOW_NEXT_SCHEDULE`, `HLP_FILTER`,
-`PREVIOUS_DAY`, `NEXT_DAY`, `EXTRAS`), whose glyph assets are not identified.
+`#009F93`. The tab rects use a red placeholder stroke in the resource; the
+real button states are TabButtonFA/UFA/FI/UFI (BinSVG 522..525): selected =
+solid white pill with `#811924` text, unselected = transparent with white
+text. The five labels are **text**, not glyphs: `SVGButton::create`
+@0x010aea28 resolves each name through `UIResourceManager::lookupString`
+(`NOW_NEXT_SCHEDULE`, `HLP_FILTER`, `PREVIOUS_DAY`, `NEXT_DAY`, `EXTRAS`).
 
 The top band 0..319 is left on the resource's white canvas with white text
 strokes; the runtime theme must supply a header. This slice uses the

diff --git a/artifacts/analysis/pvr-stock-2026-11-17/README.md b/artifacts/analysis/pvr-stock-2026-11-17/README.md
@@ -67,6 +67,12 @@ concatenated PNG payloads in index order; `icon_record_small` is record 54).
 `partialIcon`'s `SVGDialog::getDescription` lookup returns no rect in record
 692, so the shipped body falls through with the row rect; do not invent one.
 
+The five tab buttons are **text** buttons resolved through
+`UIResourceManager::lookupString` (dut "PLAY_OPTIONS", "Wijzigen/wissen",
+"Wissen", "SORT", "Instellingen"); the TabButton states 522..525 give a white
+selected pill with `#811924` text and transparent unselected tabs with white
+text. `ui.tab_font_id` defaults to 4 because font7 overflows a 300 px tab.
+
 Only `recordingIcon` is painted today, for `OA_PVR_RECORDING`. The other
 indicators need metadata (`new`, `locked`, `partial`, play-disallowed,
 service type TV/radio) that `OA_SVC_PVR` does not expose, so they remain
